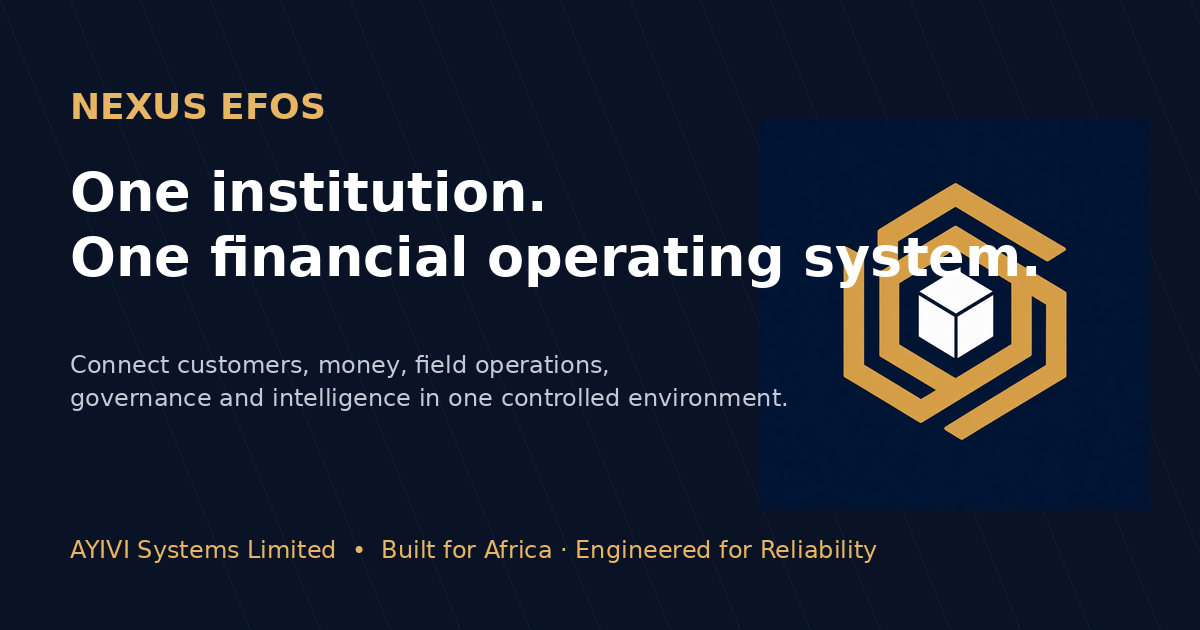
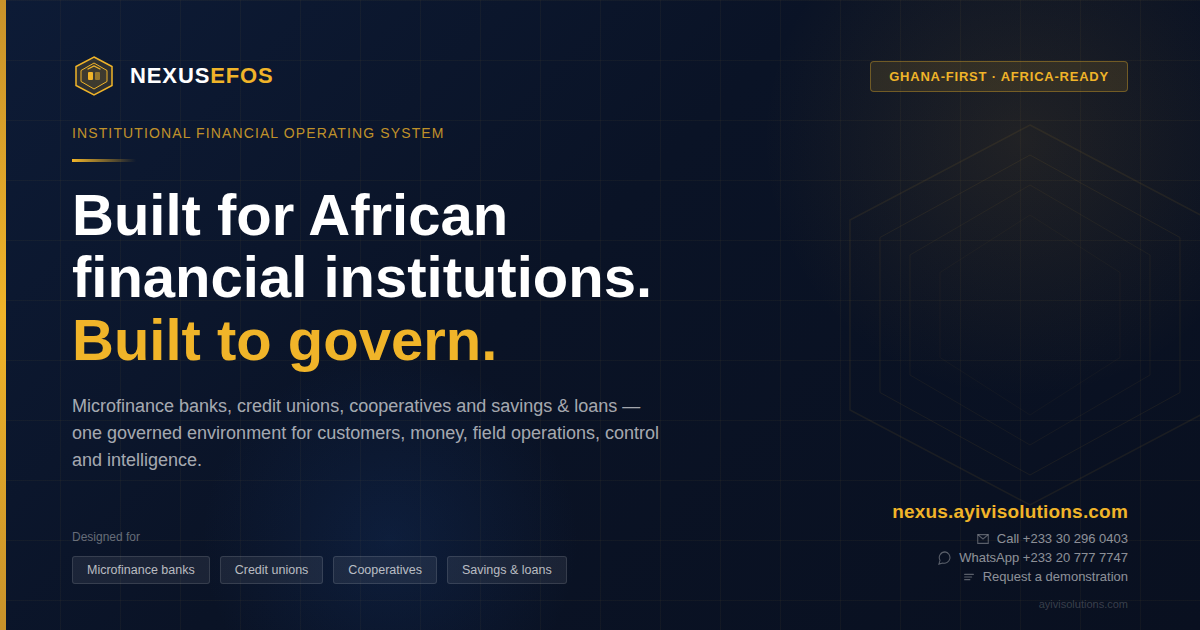
feat: hero-based OG image with CTA overlay and updated social meta

diff --git a/index.html b/index.html
@@ -20,18 +20,19 @@
   <meta property="og:type" content="website">
   <meta property="og:locale" content="en_GH">
   <meta property="og:site_name" content="Nexus EFOS">
-  <meta property="og:title" content="Nexus EFOS — One Institution. One Financial Operating System.">
-  <meta property="og:description" content="Connect customers, money, field operations, institutional operations, governance and intelligence in one controlled environment.">
+  <meta property="og:title" content="Nexus EFOS — Built for African Financial Institutions">
+  <meta property="og:description" content="Microfinance banks, credit unions, cooperatives and savings &amp; loans institutions deserve more than fragmented software. Nexus EFOS connects customers, money, field operations, control and intelligence in one governed environment. Call +233 30 296 0403 or visit nexus.ayivisolutions.com to request a demonstration.">
   <meta property="og:url" content="https://nexus.ayivisolutions.com/">
   <meta property="og:image" content="https://nexus.ayivisolutions.com/assets/og-nexus-efos.png">
   <meta property="og:image:width" content="1200">
   <meta property="og:image:height" content="630">
-  <meta property="og:image:alt" content="Nexus EFOS — One institution. One financial operating system.">
+  <meta property="og:image:alt" content="Nexus EFOS — Institutional Financial Operating System built for Ghana and Africa. One governed environment for customers, money, field operations, control and intelligence.">
 
   <meta name="twitter:card" content="summary_large_image">
-  <meta name="twitter:title" content="Nexus EFOS — Financial Operating System">
-  <meta name="twitter:description" content="One governed operating environment for customers, money, operations, control and intelligence.">
+  <meta name="twitter:title" content="Nexus EFOS — Built for African Financial Institutions">
+  <meta name="twitter:description" content="One governed environment for microfinance banks, credit unions, cooperatives and S&amp;L institutions. Customers, money, field ops, control and intelligence — connected. Call +233 30 296 0403.">
   <meta name="twitter:image" content="https://nexus.ayivisolutions.com/assets/og-nexus-efos.png">
+<meta name="twitter:image:alt" content="Nexus EFOS — Institutional Financial Operating System for Ghana and Africa">
 
   <link rel="stylesheet" href="/styles.css">
   <script type="application/ld+json">
